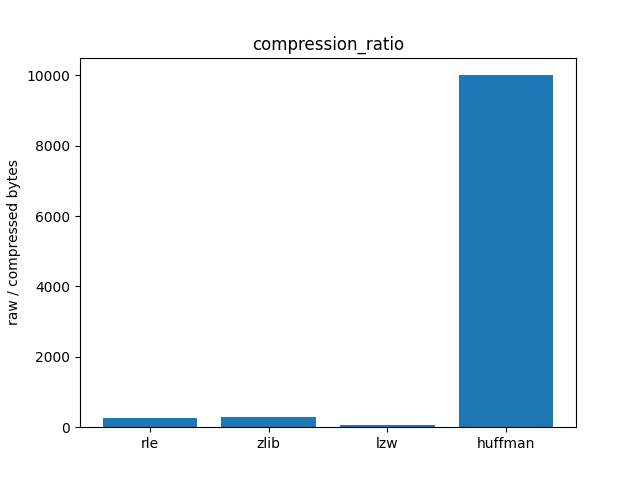
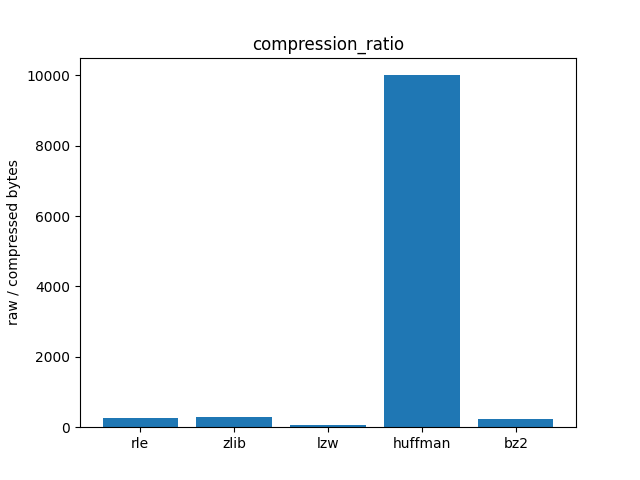
adds bz2

diff --git a/main.py b/main.py
@@ -1,5 +1,5 @@
 from pandas import DataFrame
-from algorithms import rle, zlib, lzw, huffman
+from algorithms import bz2, rle, zlib, lzw, huffman
 from helper.benchmark import benchmark
 from helper.constants import cols
 
@@ -7,7 +7,8 @@ algos = [
     rle,
     zlib,
     lzw,
-    huffman
+    huffman,
+    bz2,
 ]
 
 

diff --git a/algorithms/bz2.py b/algorithms/bz2.py
@@ -1,0 +1,4 @@
+import bz2
+
+compress = bz2.compress
+decompress = bz2.decompress
